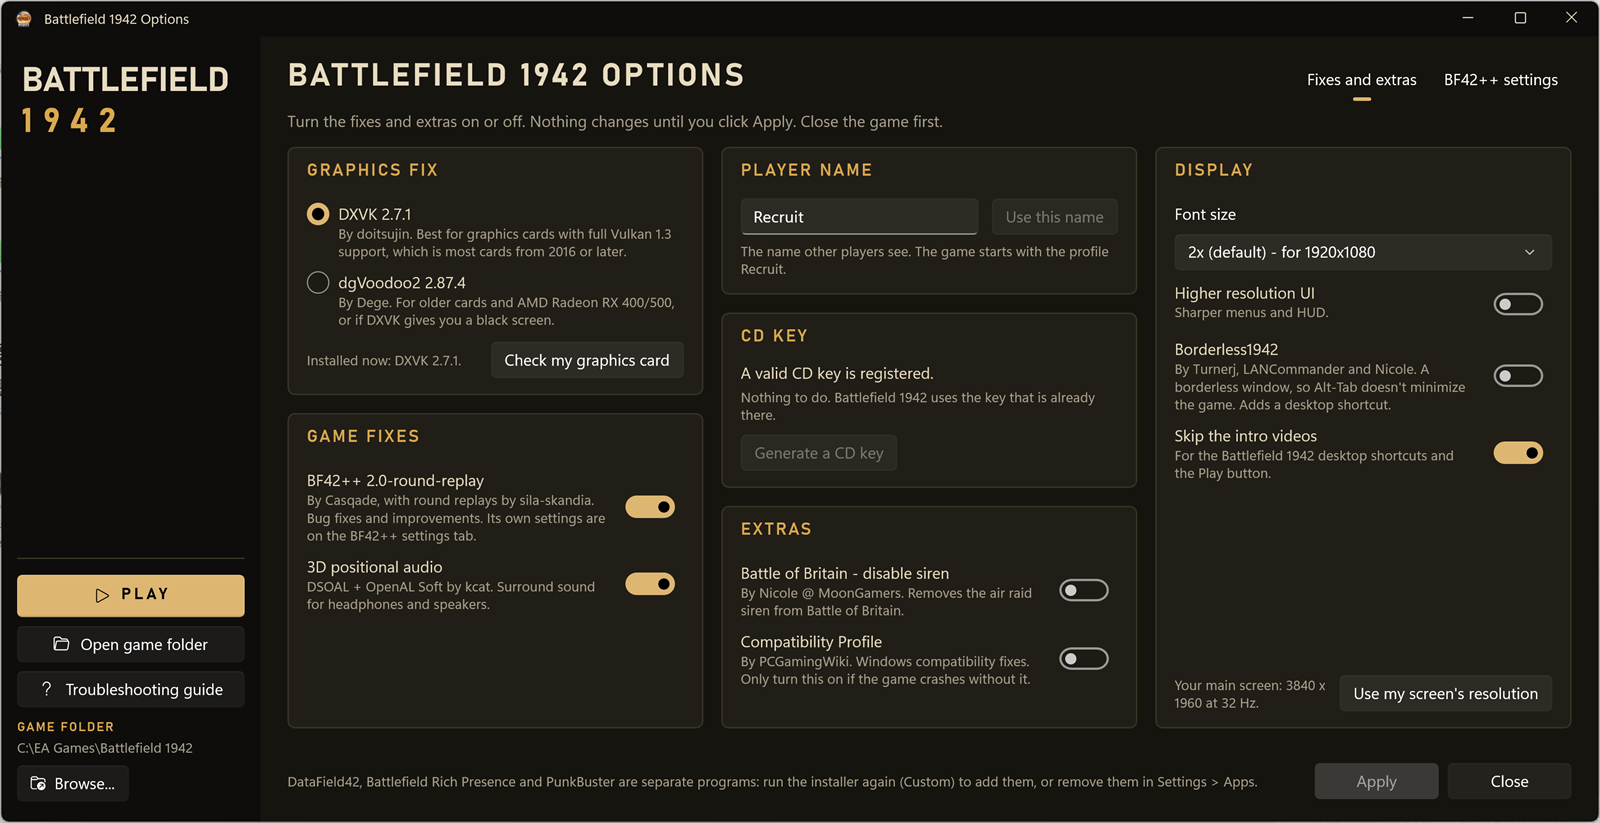
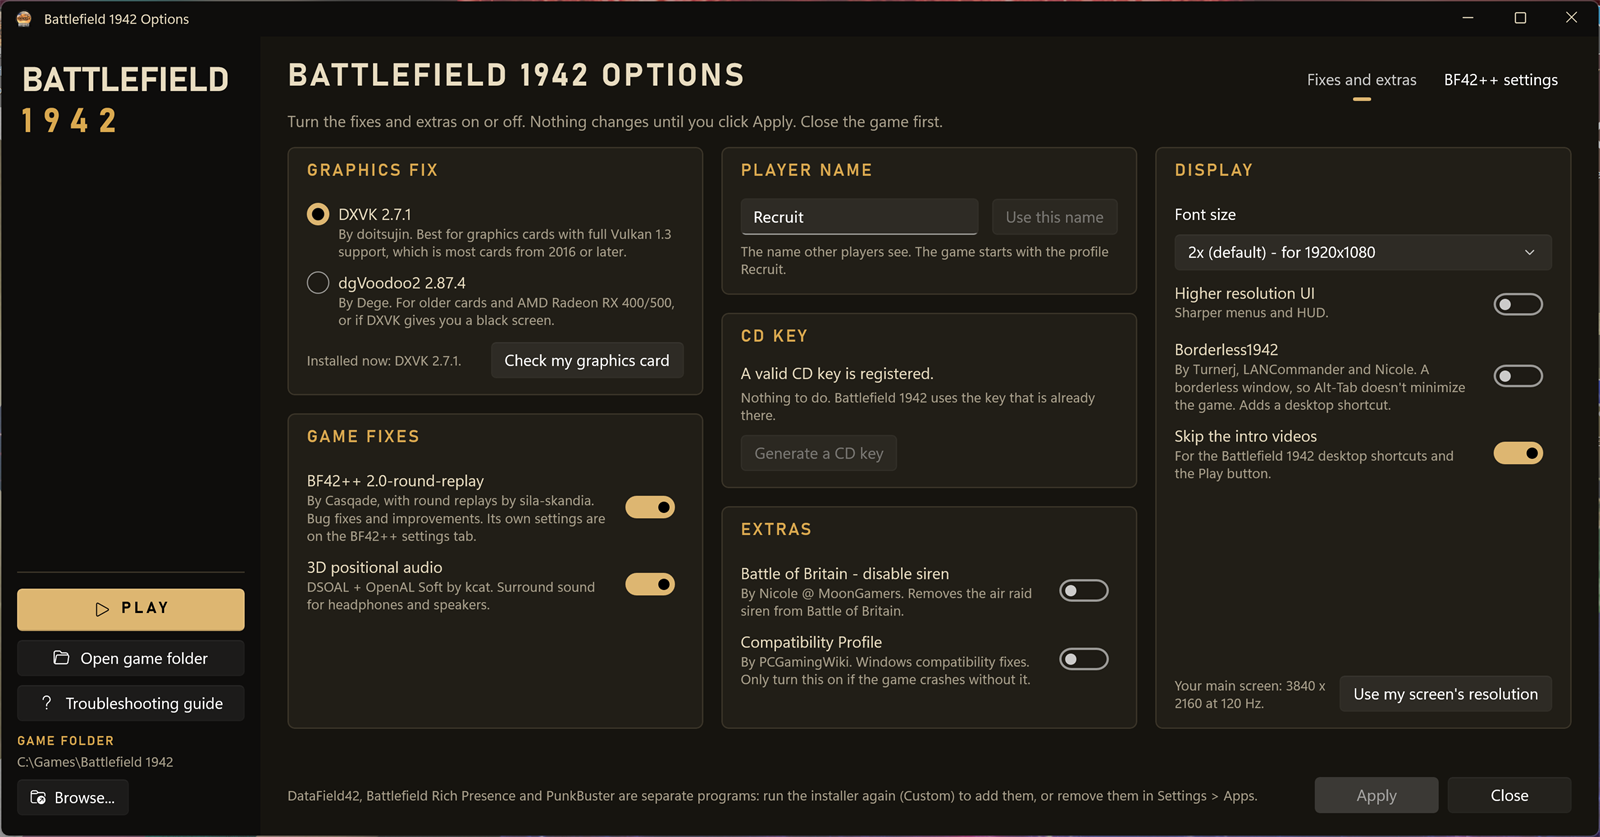
New screenshots of BF1942 Options, with the standalone copy's Set up message and Programs tab

diff --git a/README.md b/README.md
@@ -426,9 +426,13 @@ Extras your build left out show as *Not included in this installer*. DirectX, Vi
 - `Programs\`: the installers of the DirectX runtime (`DXSETUP.exe` with its `.cab` files), the Visual C++ Redistributable, the .NET 8 Desktop Runtime, DataField42, Battlefield Rich Presence and Punkbuster42 (the ones the build includes), and `programs.json` with each one's file and version.
 - `Licenses\`: DSOAL's and OpenAL Soft's licences, `LICENSE` and `THIRD-PARTY-NOTICES.md`.
 
+![A standalone copy opened on a game folder without a library: the switches are off and the message at the bottom offers Set up](docs/images/options-setup.png)
+
 Players extract it anywhere and run `BF1942 Options.exe`. It opens the game folder from the game's registry entry (or the folder it was extracted in), or they pick it with **Browse...**. A folder that has no `Options` library gets a **Set up** button: it copies `Library` to `Options` in the game folder and keeps the folder's own `menu.rfa` and `Battle_of_Britain.rfa` in `Options\Originals`. Nothing in the game changes until **Apply**, and from then on the folder works like one Setup installed. Any file of the folder's own that **Apply** replaces or removes (a `d3d8.dll` or `dsound.dll` from another fix or mod, its `Font.rfa`, ...) is kept in `Options\Backup` first. The troubleshooting guide is written for the installer, so the zip goes without it.
 
 Its **Programs** tab installs and removes everything else Setup's components page has, the way Setup and its uninstaller do: the DirectX runtime, the Visual C++ Redistributable and DirectPlay (install, repair or turn on only: other games use them too, and DirectX June 2010 has no uninstaller), DataField42 (in this game folder; Remove also puts back `BF1942.exe` as it was before DataField42 patched it), Battlefield Rich Presence (with the .NET 8 Desktop Runtime, which stays when it is removed) and PunkBuster (Punkbuster42's own installer; Remove takes out `pb` and BF1942's entry in Apps, and the PunkBuster Services when no other game uses them).
+
+![The Programs tab: the DirectX runtime, DirectPlay, Battlefield Rich Presence, the Visual C++ Redistributable, DataField42 and PunkBuster, each with what is installed now and its buttons](docs/images/options-programs.png)
 
 ## Troubleshooting guide
 
